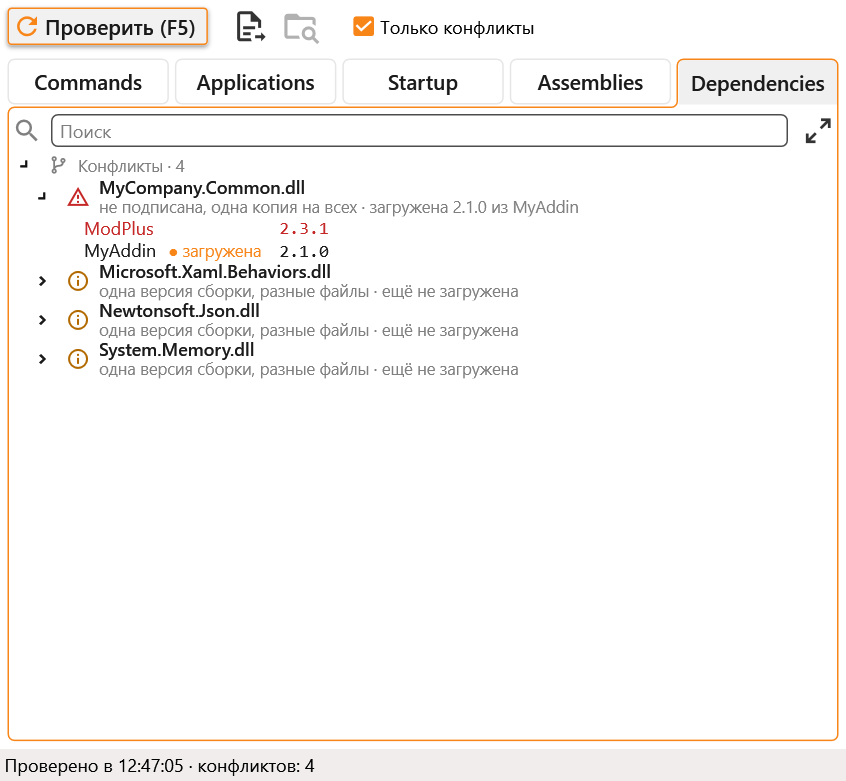
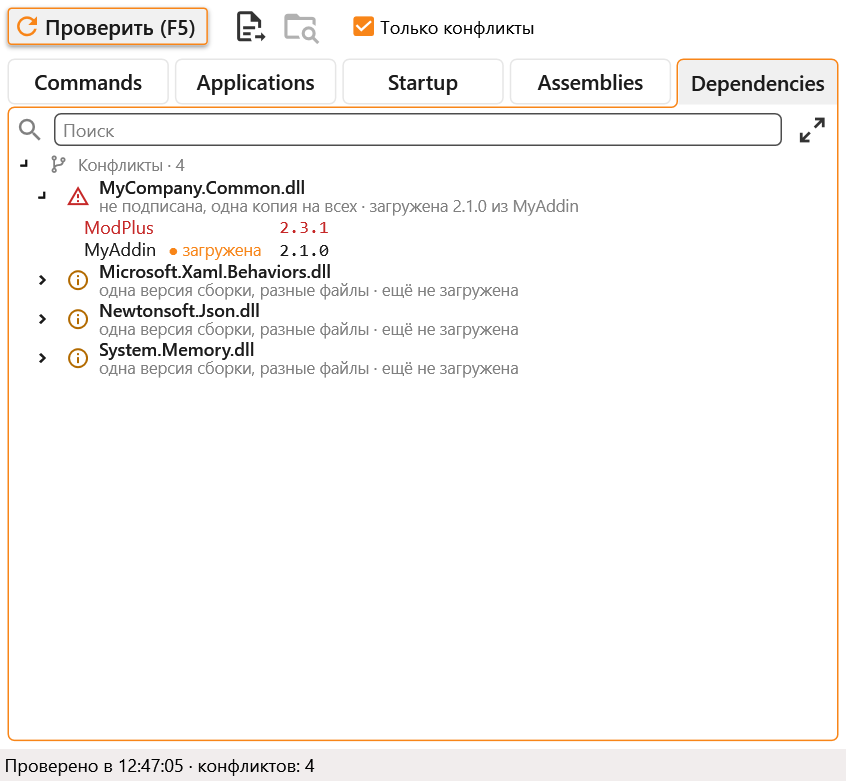
Add-in Explorer: search row 4 from the frame to each element

diff --git a/source/UI/DllRunner/AssemblyRunnerWindow.xaml b/source/UI/DllRunner/AssemblyRunnerWindow.xaml
@@ -288,7 +288,7 @@
             <TabItem Header="Commands" Style="{StaticResource FramedTabItem}" HeaderTemplate="{StaticResource TabHeader}">
                     <!-- The tree comes first in focus order, as on Dependencies: a click on the tab does not land in the search box. -->
                     <DockPanel KeyboardNavigation.TabNavigation="Local">
-                        <DockPanel DockPanel.Dock="Top" Margin="2 3 0 2">
+                        <DockPanel DockPanel.Dock="Top" Margin="4 2.5 4 2">
                             <Button DockPanel.Dock="Right" Width="25" Height="25" Margin="8 0 0 0" Padding="0" Command="{Binding CollapseAllCommand}"
                                     Style="{StaticResource MaterialDesignFlatButton}" ToolTip="Свернуть всё" TabIndex="2">
                                 <materialDesign:PackIcon Kind="ArrowExpand" Width="22" Height="22" Foreground="{StaticResource IconBrush}"/>
@@ -635,8 +635,8 @@
                 <!-- The list comes first in focus order, as on Dependencies: a click on the tab does not land in the search box. -->
                 <DockPanel KeyboardNavigation.TabNavigation="Local">
                     <!-- As tall as the row with the collapse button on Commands and Dependencies: the box sits at the same height.
-                         The margins leave 4 of white to what is drawn: the magnifier and the buttons' glyphs have room of their own. -->
-                    <DockPanel DockPanel.Dock="Top" Margin="2 3 4 2" MinHeight="25">
+                         4 from the frame to each element: the magnifier on the left, the box on top (2.5 + half of 25 - 22), the button or the box on the right. -->
+                    <DockPanel DockPanel.Dock="Top" Margin="4 2.5 4 2" MinHeight="25">
                         <materialDesign:PackIcon DockPanel.Dock="Left" Kind="Magnify" Width="20" Height="20" Foreground="Gray"
                                                  VerticalAlignment="Center" Margin="0 0 6 0"/>
                         <TextBox Text="{Binding LoadedAssemblies.SearchText, UpdateSourceTrigger=PropertyChanged}" VerticalAlignment="Center" Padding="5 2"
@@ -733,7 +733,7 @@
             <TabItem Header="Dependencies" Style="{StaticResource FramedTabItem}" HeaderTemplate="{StaticResource TabHeader}">
                 <!-- The tree comes first in focus order: opening the tab with a click puts the focus here, not in the search box. -->
                 <DockPanel KeyboardNavigation.TabNavigation="Local">
-                    <DockPanel DockPanel.Dock="Top" Margin="2 3 0 2">
+                    <DockPanel DockPanel.Dock="Top" Margin="4 2.5 4 2">
                         <Button DockPanel.Dock="Right" Width="25" Height="25" Margin="8 0 0 0" Padding="0" Command="{Binding Dependencies.CollapseAllCommand}"
                                 Style="{StaticResource MaterialDesignFlatButton}" ToolTip="Свернуть всё" TabIndex="2">
                             <materialDesign:PackIcon Kind="ArrowExpand" Width="22" Height="22" Foreground="{StaticResource IconBrush}"/>
